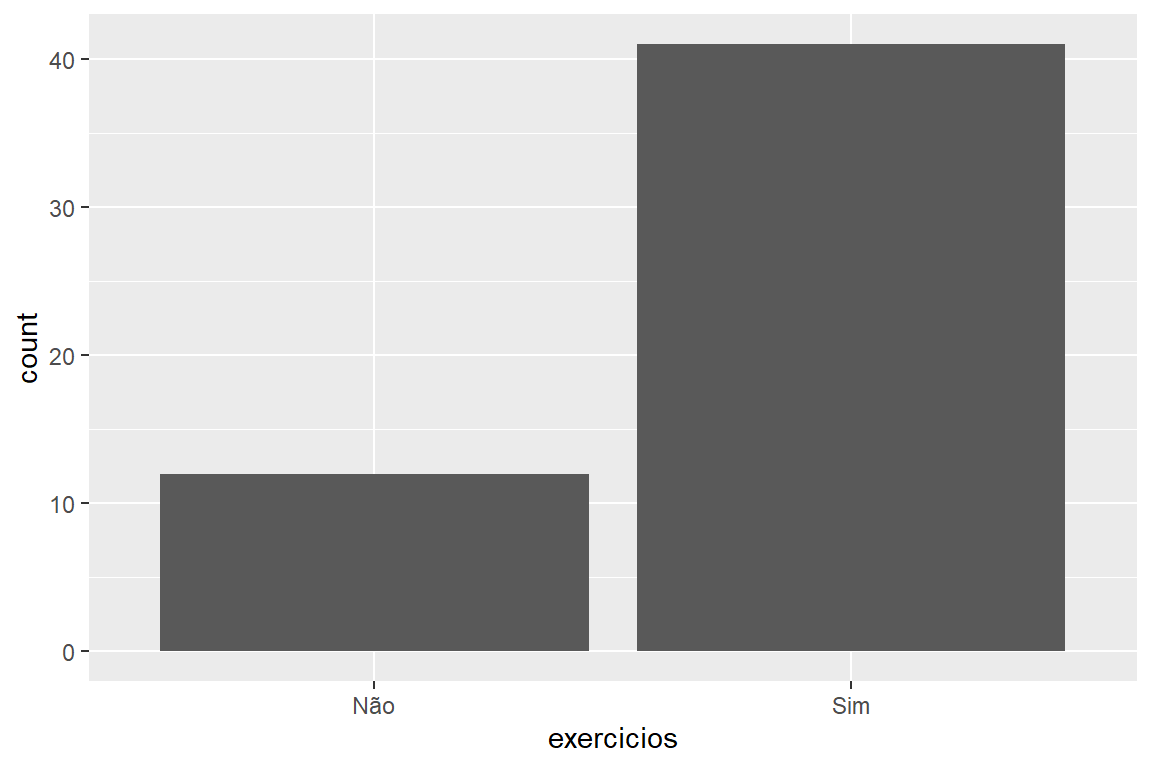
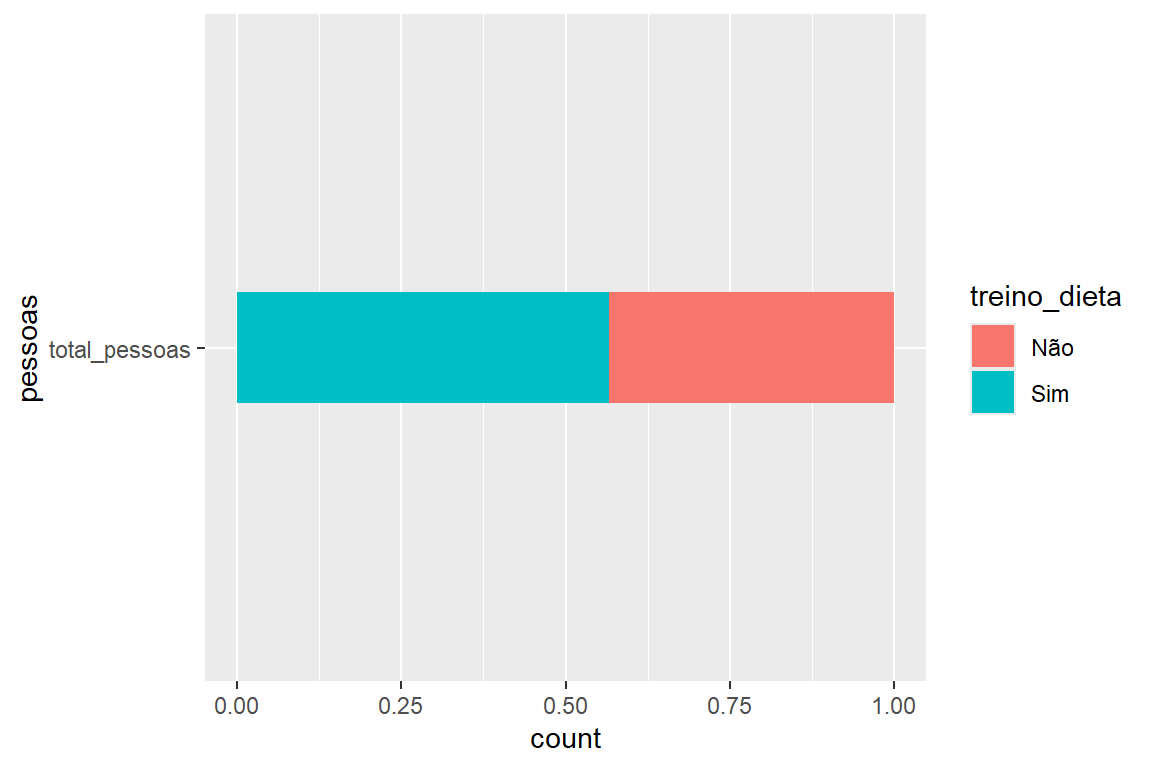
Atualizações

diff --git a/trabalho_dieta_treino/dashboard.html b/trabalho_dieta_treino/dashboard.html
@@ -205,11 +205,14 @@ grid-auto-rows: minmax(0, 1fr);">
 </div>
 </div>
 <div id="exercícios" class="dashboard-page tab-pane grid-skip html-fill-item html-fill-container" data-orientation="rows" aria-labelledby="tab-exercícios">
-<div class="html-fill-item html-fill-container bslib-grid" style="display: grid; grid-template-rows: 400px 400px; grid-auto-columns: minmax(0, 1fr);">
+<div class="html-fill-item html-fill-container bslib-grid" style="display: grid; grid-template-rows: 400px 400px 200px; grid-auto-columns: minmax(0, 1fr);">
 <div class="html-fill-item html-fill-container bslib-grid" style="display: grid; grid-template-columns: minmax(3em, 1fr);
 grid-auto-rows: minmax(0, 1fr);">
 <div class="card cell html-fill-item html-fill-container bslib-card" data-bslib-card-init="" data-require-bs-caller="card()" data-full-screen="false">
 <div class="card-body html-fill-item html-fill-container">
+<div class="cell-output cell-output-stdout html-fill-item html-fill-container">
+<pre><code>[1] "Número de pessoas que treinam e que não treinam"</code></pre>
+</div>
 <div class="cell-output-display column-page html-fill-item html-fill-container">
 <img src="dashboard_files/figure-html/unnamed-chunk-8-1.png" class="img-fluid quarto-dashboard-img-contain">
 </div>
@@ -225,6 +228,9 @@ grid-auto-rows: minmax(0, 1fr);">
 grid-auto-rows: minmax(0, 1fr);">
 <div class="card cell html-fill-item html-fill-container bslib-card" data-bslib-card-init="" data-require-bs-caller="card()" data-full-screen="false">
 <div class="card-body html-fill-item html-fill-container">
+<div class="cell-output cell-output-stdout html-fill-item html-fill-container">
+<pre><code>[1] "Quantas pessoas treinam e seguem dieta?"</code></pre>
+</div>
 <div class="cell-output-display column-page html-fill-item html-fill-container">
 <img src="dashboard_files/figure-html/unnamed-chunk-9-1.png" class="img-fluid quarto-dashboard-img-contain">
 </div>
@@ -234,8 +240,49 @@ grid-auto-rows: minmax(0, 1fr);">
     <span class="bslib-full-screen-enter badge rounded-pill">
         <svg xmlns="http://www.w3.org/2000/svg" viewbox="0 0 24 24" style="height:1em;width:1em;" aria-hidden="true" role="img"><path d="M20 5C20 4.4 19.6 4 19 4H13C12.4 4 12 3.6 12 3C12 2.4 12.4 2 13 2H21C21.6 2 22 2.4 22 3V11C22 11.6 21.6 12 21 12C20.4 12 20 11.6 20 11V5ZM4 19C4 19.6 4.4 20 5 20H11C11.6 20 12 20.4 12 21C12 21.6 11.6 22 11 22H3C2.4 22 2 21.6 2 21V13C2 12.4 2.4 12 3 12C3.6 12 4 12.4 4 13V19Z"></path></svg>
     </span>
-</bslib-tooltip><script data-bslib-card-init="">bslib.Card.initializeAllCards();</script></div><div id="3ade8a4a-fb1d-4a6c-8409-ac45482d5fc9" class="hidden html-fill-item html-fill-container">
+</bslib-tooltip><script data-bslib-card-init="">bslib.Card.initializeAllCards();</script></div>
+</div>
+<div class="html-fill-item html-fill-container bslib-grid" style="display: grid; grid-template-columns: 200px 200px;
+grid-auto-rows: minmax(0, 1fr);">
+<div class="html-fill-item html-fill-container bslib-grid" style="display: grid; grid-template-rows: minmax(3em, 1fr); grid-auto-columns: minmax(0, 1fr);">
+<div class="card valuebox cell html-fill-item html-fill-container bslib-card bslib-value-box bg-green3 showcase-left-center" data-bslib-card-init="" data-require-bs-caller="card()">
+<div class="card-body html-fill-item html-fill-container">
+<div data-icon="fuel-pump" class="html-fill-item html-fill-container value-box-grid">
+<div class="value-box-showcase html-fill-item html-fill-container">
 
+<i class="bi bi-fuel-pump"></i></div>
+<div class="value-box-area">
+<p class="value-box-title">
+Prática exercícios
+</p>
+<p class="value-box-value">
+3.2
+</p>
+</div>
+</div>
+</div>
+<script data-bslib-card-init="">bslib.Card.initializeAllCards();</script></div>
+</div><div class="html-fill-item html-fill-container bslib-grid" style="display: grid; grid-template-rows: minmax(3em, 1fr); grid-auto-columns: minmax(0, 1fr);">
+<div class="card valuebox cell html-fill-item html-fill-container bslib-card bslib-value-box bg-red4 showcase-left-center" data-bslib-card-init="" data-require-bs-caller="card()">
+<div class="card-body html-fill-item html-fill-container">
+<div data-icon="fuel-pump" class="html-fill-item html-fill-container value-box-grid">
+<div class="value-box-showcase html-fill-item html-fill-container">
+
+<i class="bi bi-fuel-pump"></i></div>
+<div class="value-box-area">
+<p class="value-box-title">
+Não pratica exercícios
+</p>
+<p class="value-box-value">
+2.8
+</p>
+</div>
+</div>
+</div>
+<script data-bslib-card-init="">bslib.Card.initializeAllCards();</script></div>
+<div id="3ade8a4a-fb1d-4a6c-8409-ac45482d5fc9" class="hidden html-fill-item html-fill-container">
+
+</div>
 </div>
 </div>
 </div>